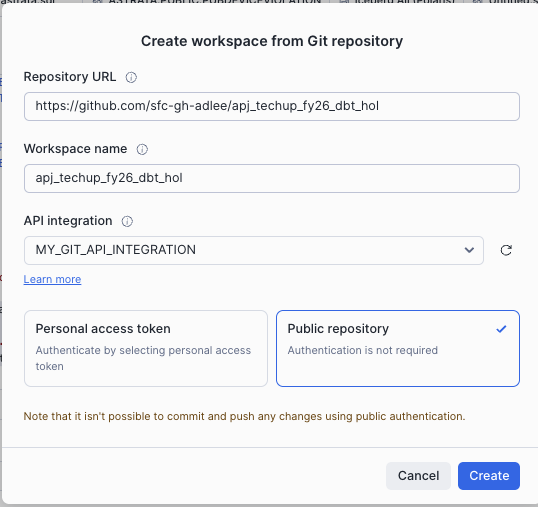
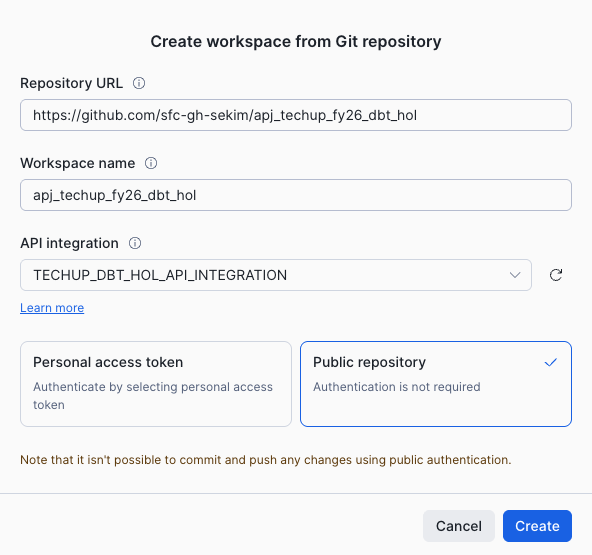
docs

diff --git a/SETUP.md b/SETUP.md
@@ -1,54 +1,19 @@
-# Setup Instructions
+# HOL Instructions
 ## Singapore Taxi Availability Data Transformation Pipeline
 
 This guide walks you through setting up the dbt project on Snowflake Workspaces to transform Singapore transportation and location data.
 
----
-
-## ✅ Prerequisites
-
-- Snowflake account (Enterprise Edition or higher recommended)
-- `ACCOUNTADMIN` privileges (for initial setup)
-- Git repository access (GitHub, GitLab, etc.)
-- Basic understanding of:
-  - SQL
-  - dbt concepts (models, sources, tests)
-  - GeoJSON format
+By the end of this HOL you should walk away with a good understanding of fundamental dbt concepts, 
 
 ---
 
 ## 🚀 Setup Instructions
 
-### Step 1: Get Dataset from Private Listing
-
-1. Navigate to **Data Products** → **Private Sharing** in Snowsight
-2. Search for **"APJ TechUP FY26 - Singapore Taxi Dataset"**
-3. Click on the listing: `APJ_TECHUP_FY26__SINGAPORE_TAXI_DATASET`
-
-![Marketplace Private Listing](images/1_marketplace.png)
-
-4. Click **"Open"** to access the shared data
-5. Verify you can see these tables:
-   - `HAWKER_CENTRES`
-   - `LTA_MRT_STATION_EXIT`
-   - `TAXI_AVAILABILITY`
-   - `TOURIST_ATTRACTIONS`
-
-> 💡 **Note**: This is a **private listing** shared specifically for this lab. The data is continuously updated from Singapore's data.gov.sg APIs.
-
----
-
-### Step 2: Run Initial Setup
+### Step 1: Set up your Snowflake Environment
 
 1. Open a **SQL Worksheet** in Snowsight
 2. Copy the contents of [`setup.sql`](setup.sql)
-3. **Update line 47** with your GitHub username:
-   ```sql
-   API_ALLOWED_PREFIXES = ('https://github.com/<YOUR_GITHUB_USERNAME>')
-   ```
-4. Run the entire script
-
-![Setup SQL Execution](images/2_setup.png)
+3. Run the entire script
 
 **What This Script Does:**
 
@@ -67,6 +32,25 @@ This guide walks you through setting up the dbt project on Snowflake Workspaces 
 
 ---
 
+### Step 2: Get Dataset from Private Listing
+
+1. Navigate to **Horizon Catalog** → **Data sharing** → **Private Sharing** in Snowsight
+2. Search for **"APJ TechUP FY26 - Singapore Taxi Dataset"**
+3. Click on the listing: `APJ_TECHUP_FY26__SINGAPORE_TAXI_DATASET`
+
+![Marketplace Private Listing](images/1_marketplace.png)
+
+4. Click **"Open"** to access the shared data
+5. Verify you can see these tables:
+   - `HAWKER_CENTRES`
+   - `LTA_MRT_STATION_EXIT`
+   - `TAXI_AVAILABILITY`
+   - `TOURIST_ATTRACTIONS`
+
+> 💡 **Note**: This is a **private listing** shared specifically for this lab. The data is continuously updated from Singapore's data.gov.sg APIs.
+
+---
+
 ### Step 3: Create Workspace from Git
 
 1. In Snowsight, navigate to **Projects** → **Workspaces**
@@ -75,9 +59,9 @@ This guide walks you through setting up the dbt project on Snowflake Workspaces 
 
    | Field | Value |
    |-------|-------|
-   | **Repository URL** | `https://github.com/<your-username>/apj_techup_fy26_dbt_hol` |
+   | **Repository URL** | `https://github.com/sfc-gh-sekim/apj_techup_fy26_dbt_hol` |
    | **Workspace name** | `apj_techup_fy26_dbt_hol` |
-   | **API Integration** | `MY_GIT_API_INTEGRATION` |
+   | **API Integration** | `TECHUP_DBT_HOL_API_INTEGRATION` |
    | **Authentication** | Public repository (no token needed) |
 
 4. Click **"Create"**
@@ -106,25 +90,6 @@ The **Silver Layer** contains cleaned and structured data models. Navigate to th
 | **`taxi_availability_metadata.sql`** | Extracts summary statistics (timestamp, taxi count, API status) |
 | **`tourist_attractions.sql`** | Parses tourist attraction details from HTML descriptions |
 | **`all_locations.sql`** | Unified location data with unique identifiers |
-
-#### 🔍 Example Transformation: `taxi_availability.sql`
-
-This model transforms raw GeoJSON taxi data into a flat table:
-
-```sql
-select 
-    ta.DATA:features[0]:properties:timestamp::timestamp as timestamp_sgt
-    , st_makepoint(f.value[0], f.value[1]) as taxi_coords
-from {{ source('raw_data', 'taxi_availability') }} ta
-    , lateral flatten(input => ta.DATA:features[0]:geometry:coordinates) f
-qualify rank() over (order by retrieved_at desc) = 1
-```
-
-**What it does:**
-1. Extracts the timestamp from the GeoJSON properties
-2. Flattens the coordinate array (each taxi has [longitude, latitude])
-3. Uses `ST_MAKEPOINT()` to create Snowflake GEOGRAPHY objects
-4. Uses `qualify` to get only the latest data extract
 
 #### 🔍 Example Transformation: `hawker_centres.sql`
 
@@ -160,11 +125,57 @@ qualify rank() over (order by retrieved_at desc) = 1
 
 ---
 
-### Step 5: Run the dbt Project
+### Step 5: Compile the dbt Project
+
+We will first "compile" the dbt project. This generates executable SQL contained in the `model`, `tests` and `analysis` folders *without* executing those queries in Snowflake. This allows developers to visually inspect fully resolved models, validate jinja / macro usage and manually running queries for debugging or development purposes.
+
+1. In your workspace, ensure **Profile** is set to to `prod`
+2. To the right, select `Compile` from the list of dbt operations
+3. Click the **Run** ▶ button
+
+This will run for a few seconds. Once complete, you will notice a new folder created in your workspace: `target/compiled/techup_dbt_hands_on_lab`. 
+
+Feel free to explore the various SQL scripts that have been generated - the below is a simple example of what was performed with this command:
+
+#### 🔍 Example Transformation: taxi_availability.sql
+
+This model flattens and transforms raw GeoJSON taxi data into a flat table.
+
+Note the contents of the `models/silver/taxi_availability.sql` model file:
+
+```sql
+--models/silver/taxi_availability.sql
+select 
+    ta.DATA:features[0]:properties:timestamp::timestamp as timestamp_sgt
+    , st_makepoint(f.value[0], f.value[1]) as taxi_coords
+from {{ source('raw_data', 'taxi_availability') }} ta -- Note the jinja template here
+    , lateral flatten(input => ta.DATA:features[0]:geometry:coordinates) f
+qualify rank() over (order by retrieved_at desc) = 1
+```
+
+In the compiled version `target/compiled/techup_dbt_hands_on_lab/silver/taxi_availability.sql`, dbt dynamically generates the SQL from the jinja template - in this specific template the `source()` call looks for the corresponding source table referenced in `models/_sources.yml`:
+
+```sql
+--target/compiled/techup_dbt_hands_on_lab/silver/taxi_availability.sql
+select 
+    ta.DATA:features[0]:properties:timestamp::timestamp as timestamp_sgt
+    , st_makepoint(f.value[0], f.value[1]) as taxi_coords
+from APJ_TECHUP_FY26__SINGAPORE_TAXI_DATASET.RAW_DATA.taxi_availability ta
+    , lateral flatten(input => ta.DATA:features[0]:geometry:coordinates) f
+```
+
+As a developer, you can manually validate queries like this one directly in Snowflake. As we are working in Snowflake Workspaces this is a simply a matter of hitting the run query button; this is no different to any other worksheet you run in Workspaces! 
+
+---
+
+### Step 6: Run the dbt Project
+
+We will first run silver layer dbt models. 
 
 1. In your workspace, set the **Profile** to `silver` (top right dropdown)
-2. Click the **Run** button (or press ▶)
-3. In the command dropdown, select: `run --target silver`
+2. Click the dropdown next to the **Run** button
+3. Untick `Execute with defaults`
+4. In the `Additional flags` textbox, enter `--select silver.*`. This specifies only the models in the `models/silver/` folder to be run
 
 ![Run dbt Project](images/4_run_silver.png)
 
@@ -172,16 +183,11 @@ qualify rank() over (order by retrieved_at desc) = 1
 
 **What Happens:**
 
-```bash
-execute dbt project from workspace USERS.PUBLIC.apj_techup_fy26_dbt_hol 
-  args='run --target silver'
-```
-
 The dbt engine will:
 1. ✅ Parse your dbt project (`dbt_project.yml`)
 2. ✅ Compile SQL models with Jinja templates
-3. ✅ Run data quality tests (defined in `_schema.yml`)
-4. ✅ Create **6 Dynamic Tables** in `TECHUP25.DBT_HOL_SILVER`:
+3. ✅ Run data quality tests (these are defined in `_schema.yml`)
+4. ✅ Create **6 Tables** in `TECHUP25.DBT_HOL_SILVER`:
    - `hawker_centres`
    - `mrt_station_exits`
    - `taxi_availability`
@@ -193,57 +199,129 @@ The dbt engine will:
 
 **Expected Output:**
 ```
-[SUCCESS 1 in 1.86s] - hawker_centres
-[SUCCESS 1 in 1.85s] - mrt_station_exits
-[SUCCESS 1 in 1.10s] - taxi_availability
-[SUCCESS 1 in 1.23s] - taxi_availability_metadata
-[SUCCESS 1 in 1.28s] - tourist_attractions
-[SUCCESS 1 in 1.15s] - all_locations
+03:23:55.311707 [info ] [Dummy-1   ]: Running with dbt=1.9.4
+03:23:55.391529 [error] [Dummy-1   ]:  adapter: Invalid profile: 'user' is a required property.
+03:23:55.723377 [info ] [Dummy-1   ]: Registered adapter: snowflake=1.9.2
+03:23:57.753088 [info ] [Dummy-1   ]: Found 9 models, 47 data tests, 4 sources, 592 macros
+03:23:57.757472 [info ] [Dummy-1   ]: 
+03:23:57.758310 [info ] [Dummy-1   ]: Concurrency: 1 threads (target='prod')
+03:23:57.758990 [info ] [Dummy-1   ]: 
+03:23:59.570553 [info ] [Thread-2 (]: 1 of 6 START sql table model DBT_HOL_SILVER.hawker_centres ..................... [RUN]
+03:24:00.816014 [info ] [Thread-2 (]: 1 of 6 OK created sql table model DBT_HOL_SILVER.hawker_centres ................ [SUCCESS 1 in 1.24s]
 
-Completed successfully
-Done. PASS=6 WARN=0 ERROR=0 SKIP=0 TOTAL=6
+...
+
+03:24:14.288308 [info ] [Thread-2 (]: 6 of 6 START sql table model DBT_HOL_SILVER.all_locations ...................... [RUN]
+03:24:15.460188 [info ] [Thread-2 (]: 6 of 6 OK created sql table model DBT_HOL_SILVER.all_locations ................. [SUCCESS 1 in 1.17s]
+03:24:15.468700 [info ] [Dummy-1   ]: 
+03:24:15.469483 [info ] [Dummy-1   ]: Finished running 6 table models in 0 hours 0 minutes and 17.71 seconds (17.71s).
+03:24:15.537683 [info ] [Dummy-1   ]: 
+03:24:15.538506 [info ] [Dummy-1   ]: Completed successfully
+03:24:15.539200 [info ] [Dummy-1   ]: 
+03:24:15.541030 [info ] [Dummy-1   ]: Done. PASS=6 WARN=0 ERROR=0 SKIP=0 TOTAL=6
 ```
 
-> 🎉 **Congratulations!** You've successfully deployed your first dbt project in Snowflake Workspaces!
+You should now be able to see tables in the `TECHUP25.DBT_HOL_SILVER` schema. We will now proceed with the gold layer.
 
 ---
 
-### Step 6: Run the Gold Layer
+### Step 7: Run the Gold Layer
 
-1. Change the **Profile** to `gold` (top right dropdown)
-2. Click the **Run** button
-3. In the command dropdown, select: `run --target gold`
-4. Click **Execute**
+1. Click the dropdown next to the **Run** button
+2. Untick `Execute with defaults`
+3. In the `Additional flags` textbox, enter `--select gold.*`
+4. Click the **Run** ▶ button
 
 This will create the **Gold Layer** models in `TECHUP25.DBT_HOL_GOLD`:
-- `taxi_counts_by_location` - Proximity analysis combining all location types
+- `taxi_counts_by_location` - Proximity analysis combining all location types in the last 24 hours
+- `taxi_counts` - 
 
 ---
 
-### Step 7: View the Data Lineage
+### Step 8: View the Data Lineage
 
 1. In your workspace, click on the **"DAG"** tab (next to Query History)
 2. You'll see a visual representation of your data lineage:
 
-![Silver Layer DAG](images/5_silver_dag.png)
+![Silver Layer DAG](images/5_dag.png)
 
-**Understanding the DAG:**
+---
 
-- **Left side (Source tables)**: Raw data from the private listing
-  - `taxi_availability`
-  - `tourist_attractions`
-  - `hawker_centres`
-  - `lta_mrt_station_exit`
-  - `weather_forecast_2h`
+### Step 9: Run data tests
 
-- **Middle (Silver models)**: Your cleaned and structured tables
-- **Right side (Gold models)**: Business logic and analytics
+1. In your workspace, under the dbt command dropdown, select `Test`
+2. This time, we'll run tests on the entire project - click the **Run** ▶ button
 
-**Key Features:**
-- 🔄 **Simplified refresh**: Latest data snapshots only
-- 📊 **Data quality**: All models have tests ensuring data integrity
-- 🗺 **Spatial data**: All location models use Snowflake's native GEOGRAPHY type
-- 🎯 **Unique identifiers**: Proper IDs for each location type
+
+
+> **_NOTE:_** dbt also handily provides a `build` command - you may have already noticed this in the command dropdown. This will run models and tests under a single command, as well as other functions such as snapshots, seeds and UDFs, which we do not cover in this HOL. This is often run as a part of an automated refresh if the customer would prefer to run the entire end-to-end process without having to run multiple calls.
+
+---
+
+### Step 10: Run as Dynamic Tables
+
+Up until this point, all dbt models have been materialised as tables. In order to keep the silver and gold models fresh with new records arriving in the data share every minute, a task needs to be run every minute; while this is well within Snowflake's capabilities, the overhead cost of running dbt in addition to any processing times will likely become a nuisance as the project scales out.
+
+As an alternative, we will leverage the `dbt-snowflake` adapter's support for Dynamic Tables to convert our existing models to them. This effectively delegates the refresh events to Snowflake DT refreshes, while dbt runs handle configuration / model changes, and any tests that can now be scheduled independently of data refreshes.
+
+This can be configured at one of three locations in a dbt project:
+
+1. Within the `dbt_project.yml` file
+2. Within the schema definition in `models/*/*.yml` files
+3. Within the model files
+
+A discussion of the intricacies of mixing different materialisation types in a dbt project is out of scope for this HOL - but exercise caution in mixing DTs and regular Tables as this can often lead to some interesting results! We will avoid this topic altogether by converting *all* tables to DTs. To do this, we can set this within the `dbt_project.yml` file.
+
+Replace the entire `models` block within the `dbt_project.yml` file with the following:
+
+```yml
+models:
+  techup_dbt_hands_on_lab:
+    silver:
+      +materialized: dynamic_table
+      +schema: DBT_HOL_SILVER
+      +snowflake_warehouse: TECHUP25_WH
+      +on_configuration_change: apply
+      +target_lag: downstream
+      +refresh_mode: INCREMENTAL
+      +initialize: ON_CREATE
+    gold:
+      +materialized: dynamic_table
+      +schema: DBT_HOL_GOLD
+      +snowflake_warehouse: TECHUP25_WH
+      +on_configuration_change: apply 
+      +target_lag: '24 HOURS'
+      +refresh_mode: INCREMENTAL
+      +initialize: ON_CREATE
+```
+
+This will create silver DTs with `target_lag` set to `DOWNSTREAM`, and gold DTs with a default `target_lag` of 24 hours. This is sufficient for location-level datasets that update infrequently, but any models relying on the `taxi_availability` source table will require a far lower lag value. We will override the `target_lag` value at the file level for those models specifically.
+
+In the `models/gold/taxi_counts.sql` model file, add an extra configuration block at the top of the file:
+
+```sql
+--models/gold/taxi_counts.sql
+{{ config(target_lag = '1 MINUTE') }}
+
+select 
+    timestamp_sgt
+    , taxi_count
+from {{ ref('taxi_availability_metadata') }}
+```
+
+Repeat for `models/gold/taxi_counts_by_location.sql`. 
+
+Now run the dbt project:
+
+1. From the dbt command dropdown, select `Build`
+2. Click the **Run** ▶ button
+
+This should overwrite your existing models to DTs.
+
+---
+## 🎓 HOL Complete!
+
+If you've finished this in good time and you're bored, try writing your own models! The `models/*/_schema.yml` files are great context for Cursor :-)
 
 ---
 
@@ -300,16 +378,4 @@ This has been resolved in the current models by:
 2. Separating spatial calculations from GROUP BY operations
 3. Using proper CTE structure to avoid geography in grouping
 
----
 
-## 🎓 Setup Complete!
-
-You've successfully set up:
-✅ Snowflake environment with proper roles and permissions  
-✅ dbt Workspace connected to Git  
-✅ Silver layer models with latest data extraction  
-✅ Gold layer models with spatial analytics  
-✅ Data quality tests and validation  
-✅ Visual data lineage  
-
-**Next Steps:** Return to the main [README.md](README.md) to explore the project architecture and key concepts.
